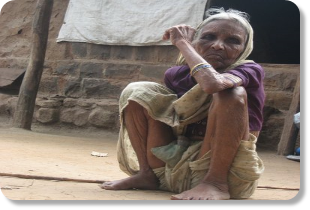
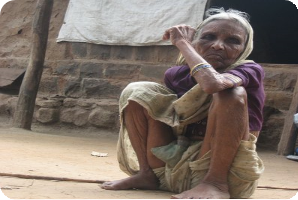
Site v2 update.

diff --git a/src/components/InSightInMind/BoxSlider.vue b/src/components/InSightInMind/BoxSlider.vue
@@ -151,7 +151,9 @@ export default {
       return {
         draggable: false,
         prevNextButtons: false,
-        pageDots: false, 
+        pageDots: false,
+				selectedAttraction: .125,
+				friction: .7,
         ...this.options,
       }
     },
@@ -204,8 +206,8 @@ export default {
     background-image: linear-gradient(135deg, $primary 0%, $color-primary-tint 90%);
 
     img {
-      width: 130%;
-      height: 130%;
+      width: 100%;
+      height: 100%;
       object-fit: cover;
       display: block;
     }
